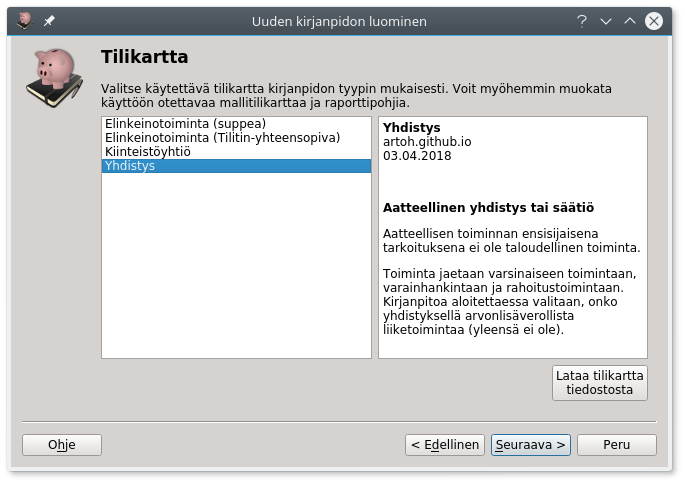
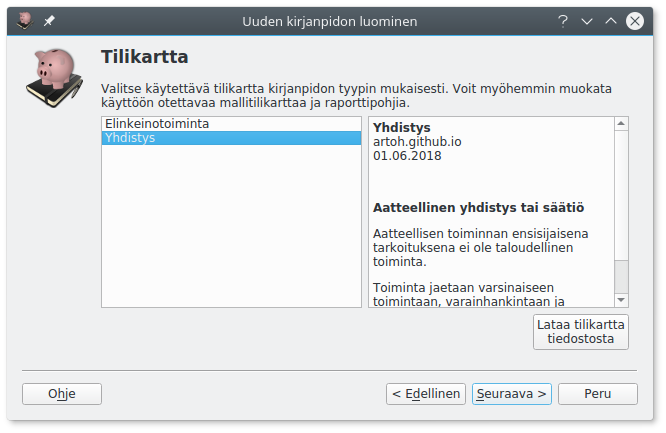
Deployed 474a9b3 with MkDocs version: 0.17.2

diff --git a/aloitus/index.html b/aloitus/index.html
@@ -986,15 +986,15 @@ tilinpäätöksen pohjan.</p>
 <td>Tilikartta yritystoimintaa varten. Yritysmuotoina elinkeinonharjoittaja, avoin yhtiö, kommandiittiyhtiö, osuuskunta, osakeyhtiö ja julkinen osakeyhtiö. Tilikartta on yhteensopiva <a href="http://helineva.net/tilitin">Tilitin</a>-ohjelman elinkeinotoiminnan tilikartan kanssa. 869 tiliä.</td>
 </tr>
 <tr>
-<td>Kiinteistöyhtiö</td>
-<td>Kiinteistökaavan mukaisen tuloslaskelman tilikartta kiinteistöyhtiölle ja asunto-osakeyhtiölle. <span class="fa fa-exclamation-triangle"></span><strong>Tämä tilikartta on puutteellisesti testattu.</strong></td>
-</tr>
-<tr>
 <td>Yhdistys</td>
 <td>Tilikartta aatteelliselle yhdistykselle ja säätiölle. Tuloslaskelma on yhdistyskaavan mukainen. 214 tiliä, kirjanpitoa aloitettaessa valitaan tilikartan laajuus (käytössä olevat tilit) yhdistyksen tarpeiden mukaisesti.</td>
 </tr>
 </tbody>
 </table>
+<div class="admonition note">
+<p class="admonition-title">Kiinteistöyhtiön tilikartta</p>
+<p>Kiinteistöyhtiön tilikartan voi <a href="https://raw.githubusercontent.com/artoh/kitupiikki/master/kitupiikki/tilikartat/kiinteisto.kpk">ladata erikseen</a>. <em>Kiinteistöyhtiön tilikartta on puutteellisesti testattu, eikä siinä ole käytössä kaikkia ominaisuuksia.</em></p>
+</div>
 <p>Voit valita ohjelman mukana tulevan tilikartan tai <strong>Lataa tilikartta tiedostosta</strong>-napilla
 erilliseen tiedostoon tallennetun tilikartan.</p>
 <p>Voit myöhemmin lisätä, muokata ja poistaa käytössä olevia tilejä samoin kuin
